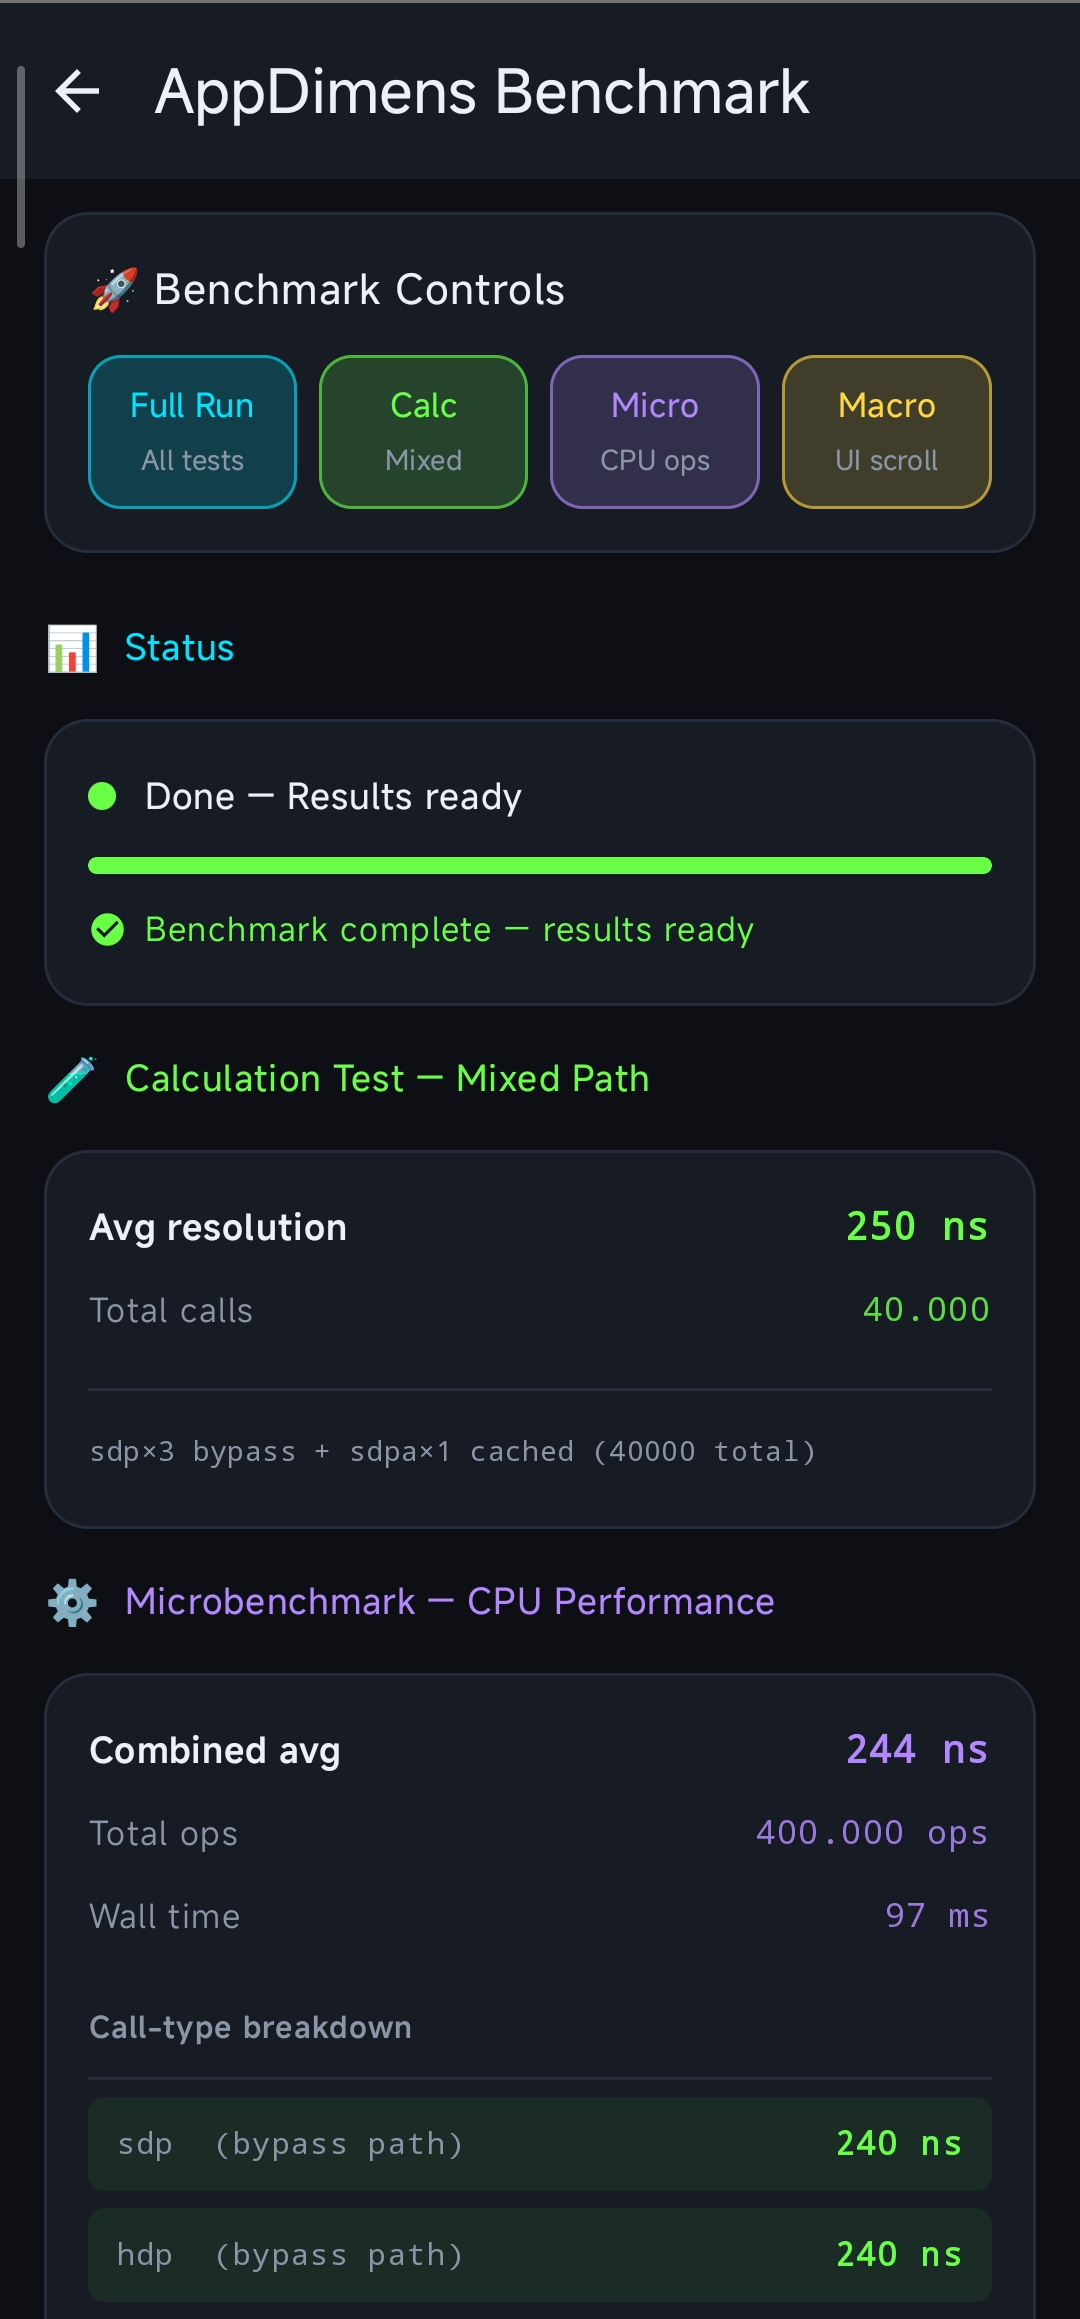
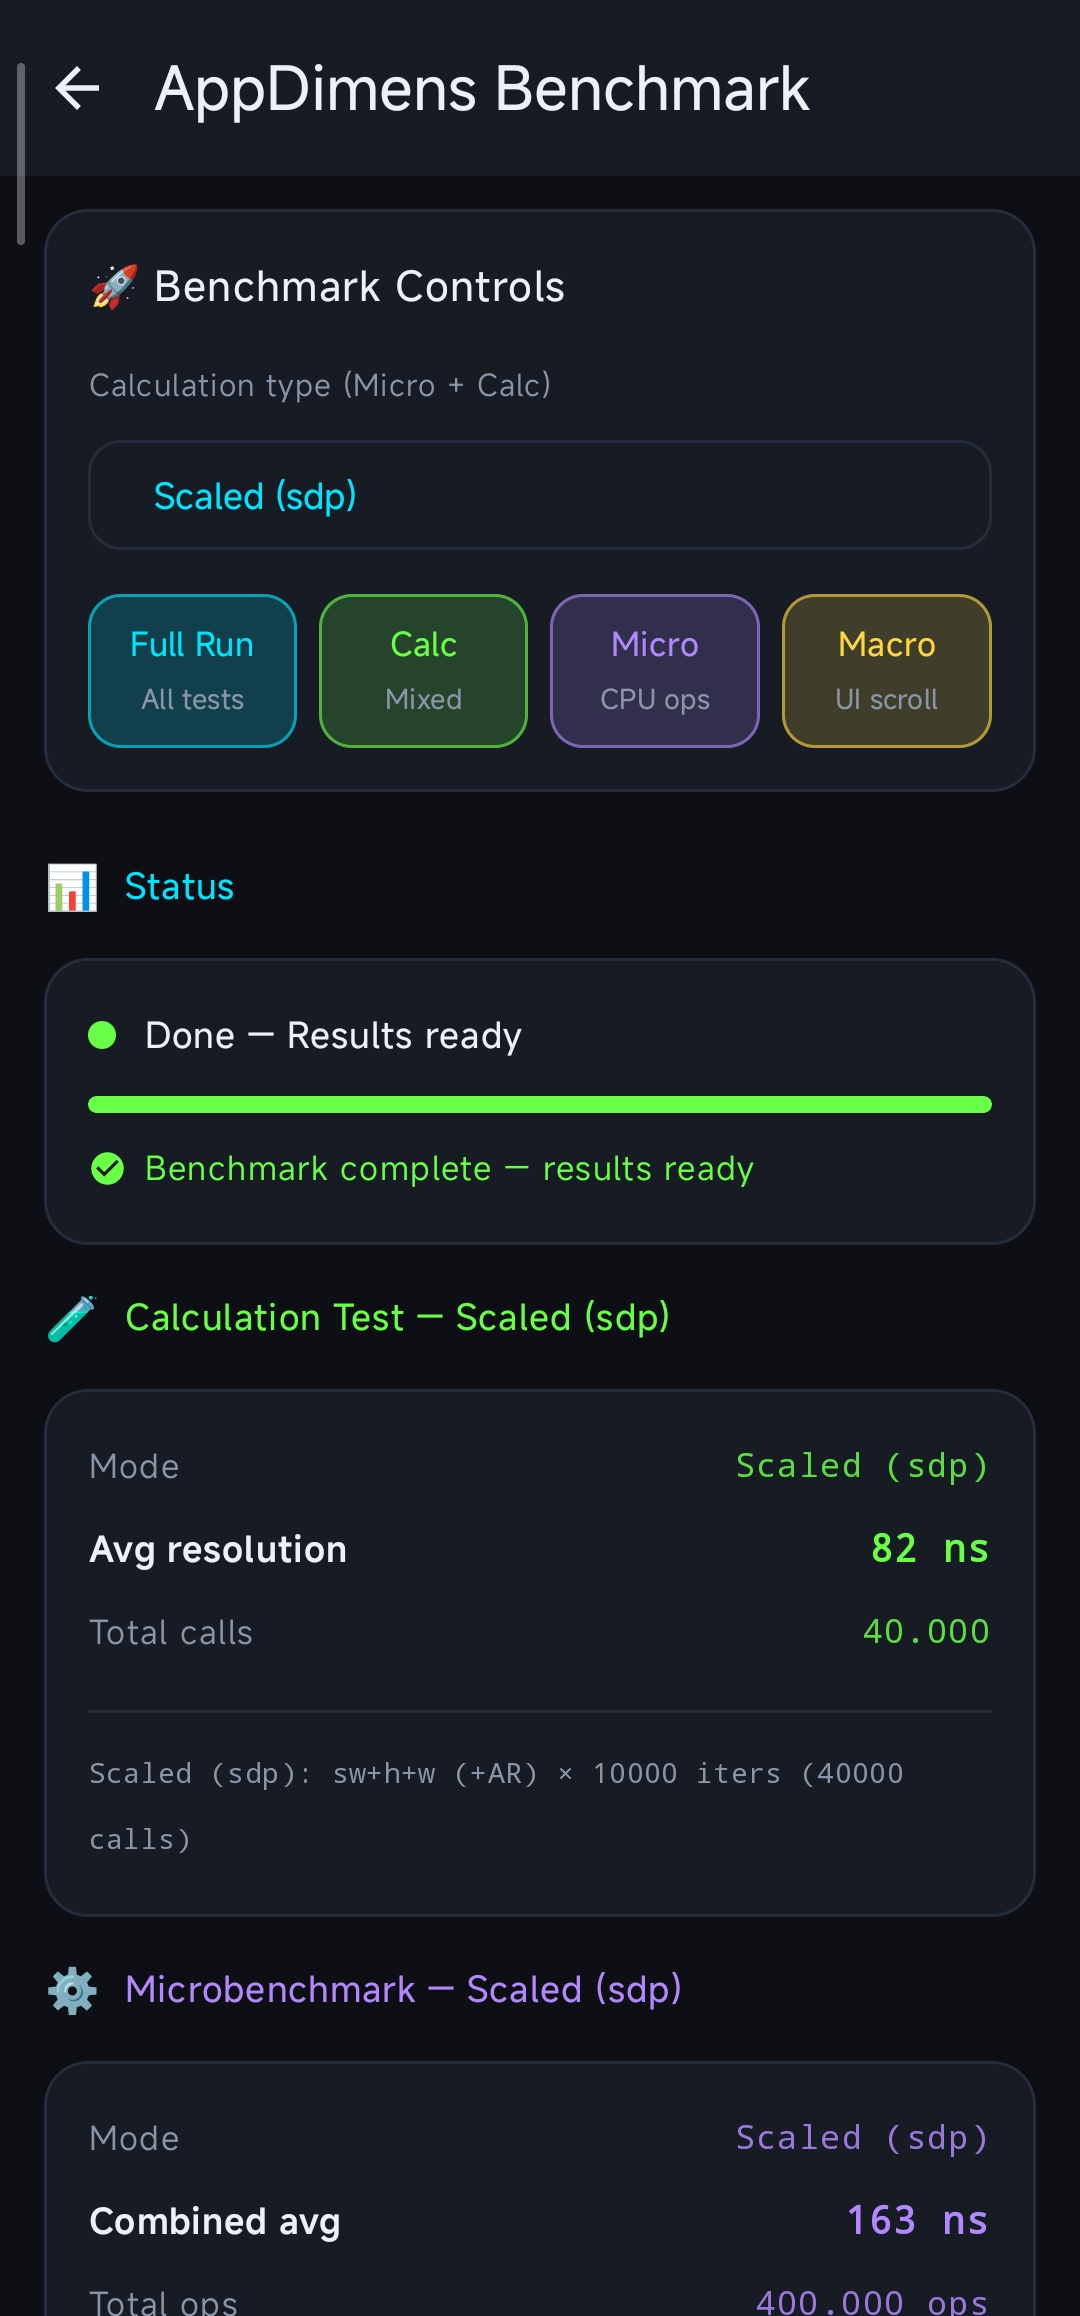
Version 3.1.1

diff --git a/R8-PROGUARD.md b/R8-PROGUARD.md
@@ -1,0 +1,157 @@
+# R8, full mode, and ProGuard rules (AppDimens Dynamic)
+
+This guide explains **why** and **how** to use R8/minify, **what changes** when you turn on **full mode**, and **which ProGuard rule file does what** in this repository. It is written for developers who are new to R8/ProGuard but want accurate, technical detail.
+
+---
+
+## Why use minify and R8?
+
+**R8** runs when you enable **code shrinking** (often called “minify”) on a **release** (or other) build type. In practice you get three related benefits:
+
+1. **Smaller APK/AAB** — Unused classes, methods, and fields from your app **and** from dependencies can be removed (*tree shaking*). Users download less; install footprint is smaller.
+2. **Faster runtime on device** — R8 can **inline** calls, simplify control flow, and remove indirection. For CPU-heavy libraries (like dimension scaling on hot UI paths), that can show up as **lower nanoseconds per call** in benchmarks. This repo documents that effect in [`PERFORMANCE.md`](PERFORMANCE.md) and [`PERFORMANCE-COMPARATIVE.md`](PERFORMANCE-COMPARATIVE.md) (release + minify + R8 vs debug without minify).
+3. **Obfuscation** — Short names replace original class/member names in the shipped bytecode. This is **not** encryption, but it makes casual reverse engineering harder and complements Play App Signing.
+
+**R8 full mode** (`android.enableR8.fullMode=true`) asks the toolchain for **stricter** optimizations than “compat” mode. You may get **even better** size and speed, but **more** code paths are candidates for removal or renaming—so **correct ProGuard rules matter more**.
+
+**Trade-off in one sentence:** you exchange a bit of build time and configuration care for smaller binaries and often faster, harder-to-read release code.
+
+---
+
+## How to enable and use it
+
+### 1. Turn on minify for your **application** module
+
+In the module that produces the installable APK (usually `:app`), set **`minifyEnabled`** (Kotlin DSL: **`isMinifyEnabled`**) to **`true`** for the build type you ship to users—typically **`release`**.
+
+Example pattern (your file may differ slightly):
+
+```kotlin
+android {
+    buildTypes {
+        release {
+            isMinifyEnabled = true
+            // Optional: remove unused resources after code shrink
+            isShrinkResources = true
+            proguardFiles(
+                getDefaultProguardFile("proguard-android-optimize.txt"),
+                "proguard-rules.pro"
+            )
+        }
+    }
+}
+```
+
+In **this** repository, the sample app already does this in [`app/build.gradle.kts`](app/build.gradle.kts). Your own project needs the same idea on **your** `app` module.
+
+**What you do day to day:** build the **release** variant (e.g. **Build → Generate Signed Bundle / APK**, or `./gradlew assembleRelease`), install that build on a **real device**, and run through critical flows. **Debug** installs usually keep `minifyEnabled = false` so iteration stays fast—that is normal.
+
+### 2. (Optional) Enable **R8 full mode** for the whole project
+
+In the root [`gradle.properties`](gradle.properties), uncomment:
+
+```properties
+android.enableR8.fullMode=true
+```
+
+Sync Gradle, then **rebuild release** and **retest**. Full mode does not replace step 1; it changes **how aggressively** R8 optimizes **when** minify runs.
+
+### 3. Rules: what you edit vs what you get for free
+
+- **Your app:** put app-specific keeps in **`app/proguard-rules.pro`** (reflection, JNI, serialization libraries, etc.).
+- **AppDimens Dynamic:** when you depend on `io.github.bodenberg:appdimens-dynamic`, the AAR already carries **[`library/consumer-rules.pro`](library/consumer-rules.pro)**. Gradle **merges** those rules into your R8 step automatically—you do **not** paste them by hand.
+
+If a release build **crashes** only after turning on minify or full mode, open **R8 / ProGuard** mapping or stack traces, then adjust **keeps** (see sections below).
+
+---
+
+## Risks specific to R8 full mode
+
+Full mode is **optional**. If you enable it (step 2 under **How to enable and use it** above), expect the same categories of issues as minify—just **more likely** until rules are tight. R8 then applies **stricter** shrinking, optimization, and obfuscation. That is usually good for size and speed, but it can:
+
+- Remove or rename members that look “unused” to R8 but are still required at runtime (for example **Kotlin `inline` bodies** expanded in the **app** that reference **`internal` APIs** marked `@PublishedApi`).
+- Strip **padding fields** that exist only to avoid **false sharing** on multi-core CPUs, silently hurting hot-path performance.
+- Break **Compose** wiring (`CompositionLocal`, providers) if keep rules are incomplete.
+
+**You must keep the library’s consumer rules in sync** and test a **release** build (minify on) on a real device. If something crashes with `NoSuchFieldError`, `NoSuchMethodError`, or missing composables, the fix is almost always an extra `-keep` or a corrected rule scope—not “disable R8 forever.”
+
+See also: [`library/PERFORMANCE.md`](library/PERFORMANCE.md) (cache notes) and the performance reports [`PERFORMANCE.md`](PERFORMANCE.md) / [`PERFORMANCE-COMPARATIVE.md`](PERFORMANCE-COMPARATIVE.md).
+
+---
+
+## R8 and ProGuard rules in plain terms
+
+**R8** is the Android toolchain step that can **shrink** (delete unused code), **optimize** (inline, simplify), and **obfuscate** (rename classes/members) your compiled bytecode.
+
+**ProGuard rule files** (`.pro`) are text instructions such as “do not remove this class” (`-keep`) or “allow these optimizations” (`-optimizations`). Gradle merges **default rules**, **your app rules**, and **rules shipped inside AARs** (`consumer-rules`) into one configuration for the app’s release build.
+
+Think of it as: **R8 reads your app + dependencies + merged rules → outputs a smaller, faster, possibly renamed program.** If a rule is wrong, the program still builds but can fail at runtime.
+
+---
+
+## 1. Library module: `library/proguard-rules.pro`
+
+**When it runs:** Only when the **`:library`** Android module is built with **`minifyEnabled = true`** for that module’s build type.
+
+In this repo, [`library/build.gradle.kts`](library/build.gradle.kts) currently sets **`isMinifyEnabled = false`** for the library `release` type. So for a normal **AAR** publish, these rules are **prepared** but often **not** executed during the library artifact build; the **app** that depends on the library still runs R8 on the **merged** app when **the app** has minify enabled.
+
+**What this file is for:**
+
+- Strong **optimization** settings (`-optimizationpasses`, `-allowaccessmodification`, `-optimizations`, …) when the library itself is minified.
+- **Keeps** for the public API (`com.appdimens.dynamic.code.**`, `compose.**`, `common.**`).
+- **Keeps** for `DimenCache`, nested types, **padding fields** on `ScreenFactors` / `ShardWrapper`, enums whose ordinals matter, Compose plumbing, `ResizeBound`, DataStore, Kotlin metadata, etc.
+
+The file’s own comments document **why** each block exists (especially **`@PublishedApi internal`** members used from **inlined** code in consuming apps, and **padding** fields R8 might delete as “unused”).
+
+**Practical note:** Debug options like `-printmapping` belong here for **library** diagnostics only. **Do not** copy those into `consumer-rules.pro`—they would run on every app developer’s machine (see comments in `library/proguard-rules.pro`).
+
+---
+
+## 2. Consumer rules: `library/consumer-rules.pro`
+
+**When it runs:** Automatically. This file is registered with:
+
+```kotlin
+consumerProguardFiles("consumer-rules.pro")
+```
+
+Gradle **packages** it into the **AAR**. When an app enables **minify/R8** on **release**, those rules are **merged** into the app’s R8 configuration **without** the app author copying anything.
+
+**What this file is for:**
+
+- The **minimum** set of rules so the **published library** stays correct inside **any** consuming app under R8 (including **full mode**).
+- Same critical areas as above: public API surface, `DimenCache` and nested classes, padding fields, enums, `ResizeBound`, Compose-related `core` classes, Kotlin metadata basics, DataStore.
+
+**Design choice:** Consumer rules intentionally **do not** force app-wide policies like `-optimizationpasses` on the app—those remain **app** decisions.
+
+**Beginner mental model:**  
+`proguard-rules.pro` (library) = “when we minify **the library artifact** itself.”  
+`consumer-rules.pro` = “when **someone else’s app** minifies **their** APK that contains our AAR.”
+
+---
+
+## 3. App module: `app/proguard-rules.pro`
+
+**When it runs:** When the **`:app`** module has **`minifyEnabled = true`** (release in [`app/build.gradle.kts`](app/build.gradle.kts)).
+
+**What this file is for:**
+
+- Rules for **this sample application**: extra `-keep` for **Kotlin Serialization**, JNI-style keeps, and general release tuning.
+- It works **together** with:
+  - Android Gradle **default** ProGuard/R8 files (`proguard-android-optimize.txt`, etc.).
+  - **Merged consumer rules** from dependencies (including AppDimens Dynamic’s `consumer-rules.pro`).
+
+**Important:** Your **own** app will have **its own** `proguard-rules.pro`. The sample under `app/` is **not** a substitute for rules your code may need (reflection, Gson, Hilt, etc.). AppDimens only ships what the library needs via **consumer** rules; everything else is your responsibility.
+
+---
+
+## Quick checklist (release + R8)
+
+1. Build and run **`release`** (or minified) on a device—not only `debug`.
+2. Exercise screens that use **Compose** extensions, **resize** APIs, and **configuration changes**.
+3. If you enable **`android.enableR8.fullMode=true`**, repeat the same tests; failures usually mean a missing or overly narrow `-keep`.
+4. For performance comparisons, see [`PERFORMANCE.md`](PERFORMANCE.md): **debug without minify** vs **release with minify + R8** are different environments; do not mix numbers without reading the methodology note.
+
+---
+
+*AppDimens Dynamic — R8 / ProGuard reference*

diff --git a/PERFORMANCE.md b/PERFORMANCE.md
@@ -2,6 +2,27 @@
 
 This report provides a deep technical analysis of the AppDimens Dynamic library performance, following the **SIMD-friendly Batching**, **Cache Sharding (Padded)**, and **Inlined Hot-Path** optimizations.
 
+> [!NOTE]
+> **Build variants, R8, and how to read the numbers**
+>
+> With **code shrinking and R8** enabled on **release** builds (`minifyEnabled = true`), the library’s hot paths can run **much faster** than in a typical **debug** APK. Example ranges observed on the project benchmark harness (same device class as elsewhere in this report):
+>
+> | Harness | Approx. range (release + minify + R8) |
+> | :--- | :--- |
+> | **Calculation Test** (avg) | **~82 ns – ~150 ns** |
+> | **Microbenchmark** (combined / per-cycle metric as reported by the dashboard) | **~125 ns – ~155 ns** |
+> | **Macrobenchmark** (estimated **per-item** cost under that harness with R8; **not** the same cell as scroll duration in ms / µs below) | **~367 ns – ~380 ns** |
+>
+> **All other tables and figures in this document** were captured on **debug** builds **without** minify (no R8 shrinking/optimization pass on that variant). Treat **debug without minify** vs **release with minify + R8** as **different environments**—do not compare cells across those scenarios without this context.
+>
+> Enabling **R8 full mode** (`android.enableR8.fullMode=true` in `gradle.properties`) makes optimization more aggressive; keep ProGuard/R8 rules correct when you turn it on. See **[R8-PROGUARD.md](./R8-PROGUARD.md)**.
+
+<p align="center">
+  <img src="IMAGES/screenshot_benchmark.jpg" alt="Benchmark dashboard — AppDimens Dynamic" width="200" />
+  &nbsp;
+  <img src="IMAGES/screenshot_benchmark2.jpg" alt="Benchmark dashboard — additional capture" width="200" />
+</p>
+
 ---
 
 ## 1. Architectural Overview
@@ -56,6 +77,8 @@ Stress test executed via the new **Micro + Macro Benchmark Dashboard**. This mea
 | **Macro Scroll (1000 items)** | ~996 ms | **Fluid** |
 | **Est. Cost per item** | ~996 µs | **Zero Jank** for 120 FPS |
 | **Peak UI Load** | **Indistinguishable** | 0% Jank Detected |
+
+The **~260 ns** / **~996 µs** figures above are from **debug without minify**. On **release with minify + R8**, the same dashboard-style harness reports roughly **~125 ns – ~155 ns** (micro combined) and **~367 ns – ~380 ns** for the macro **per-item** estimate under that configuration—see the **Build variants, R8** note at the top of this document.
 
 ---
 

diff --git a/PERFORMANCE-COMPARATIVE.md b/PERFORMANCE-COMPARATIVE.md
@@ -2,6 +2,25 @@
 
 This report documents the performance results **after applying the 4 optimization phases** for the current library.
 
+> [!NOTE]
+> **Build variants, R8, and how to read the numbers**
+>
+> With **code shrinking and R8** on **release** builds (`minifyEnabled = true`), benchmark numbers can drop sharply versus **debug** without minify. Example ranges from the project harness:
+>
+> | Harness | Approx. range (release + minify + R8) |
+> | :--- | :--- |
+> | **Calculation Test** (avg) | **~82 ns – ~150 ns** |
+> | **Microbenchmark** | **~125 ns – ~155 ns** |
+> | **Macrobenchmark** (estimated **per-item** cost in that harness under R8—not the scroll-duration / µs-per-row figures in the baseline table below) | **~367 ns – ~380 ns** |
+>
+> **Unless a paragraph explicitly says otherwise**, the benchmarks and tables in this document use **debug** builds **without** minify (e.g. `connectedDebugAndroidTest`, debug APK for `BenchmarkActivity`). See **[R8-PROGUARD.md](./R8-PROGUARD.md)** if you enable **R8 full mode** (`android.enableR8.fullMode=true` in `gradle.properties`).
+
+<p align="center">
+  <img src="IMAGES/screenshot_benchmark.jpg" alt="Benchmark dashboard — AppDimens Dynamic" width="200" />
+  &nbsp;
+  <img src="IMAGES/screenshot_benchmark2.jpg" alt="Benchmark dashboard — additional capture" width="200" />
+</p>
+
 ---
 
 ## 1. Applied Optimizations
@@ -137,6 +156,8 @@ With `ScreenFactors`, the 6 fields + 112-byte padding are isolated in their own 
 | **Micro** | sdpa (cache lookup) | ~35 ns | Hot |
 | **Macro** | Scroll Duration (1k items) | ~996 ms | Fluid |
 | **Macro** | Est. Cost per item | ~996 µs | Fluid |
+
+**Release + minify + R8 (same harness family):** micro combined average **~125 ns – ~155 ns** per cycle (contrast **~260 ns** hot steady-state above on **debug without minify**). Macro **per-item** estimate under R8 **~367 ns – ~380 ns** (see methodology note at the top of this document—distinct from **~996 µs** per row in the debug table, which includes full row composition/layout/draw).
 
 **Steady-state performance:** **~260 ns** combined average per 4-call cycle (hot JIT, dashboard capture · 2026-04-03).
 

diff --git a/README.md b/README.md
@@ -44,6 +44,20 @@
   </a>
 </p>
 
+<p align="center">
+  <a href="./PERFORMANCE.md" title="Technical performance report">
+    <img src="https://img.shields.io/badge/Performance-Report-0f766e?style=for-the-badge&logo=google-analytics&logoColor=white&labelColor=134e4a" alt="Performance report">
+  </a>
+  &nbsp;&nbsp;
+  <a href="./PERFORMANCE-COMPARATIVE.md" title="Performance after optimization phases — comparative report">
+    <img src="https://img.shields.io/badge/Performance-Comparative-7c3aed?style=for-the-badge&logo=speedtest&logoColor=white&labelColor=5b21b6" alt="Performance comparative">
+  </a>
+  &nbsp;&nbsp;
+  <a href="./R8-PROGUARD.md" title="R8 full mode and ProGuard rules — library, consumer, app">
+    <img src="https://img.shields.io/badge/R8%20%26%20ProGuard-Rules-334155?style=for-the-badge&logo=android&logoColor=white&labelColor=1e293b" alt="R8 and ProGuard rules">
+  </a>
+</p>
+
 ---
 
 ![AppDimens Banner](IMAGES/banner_top.png)